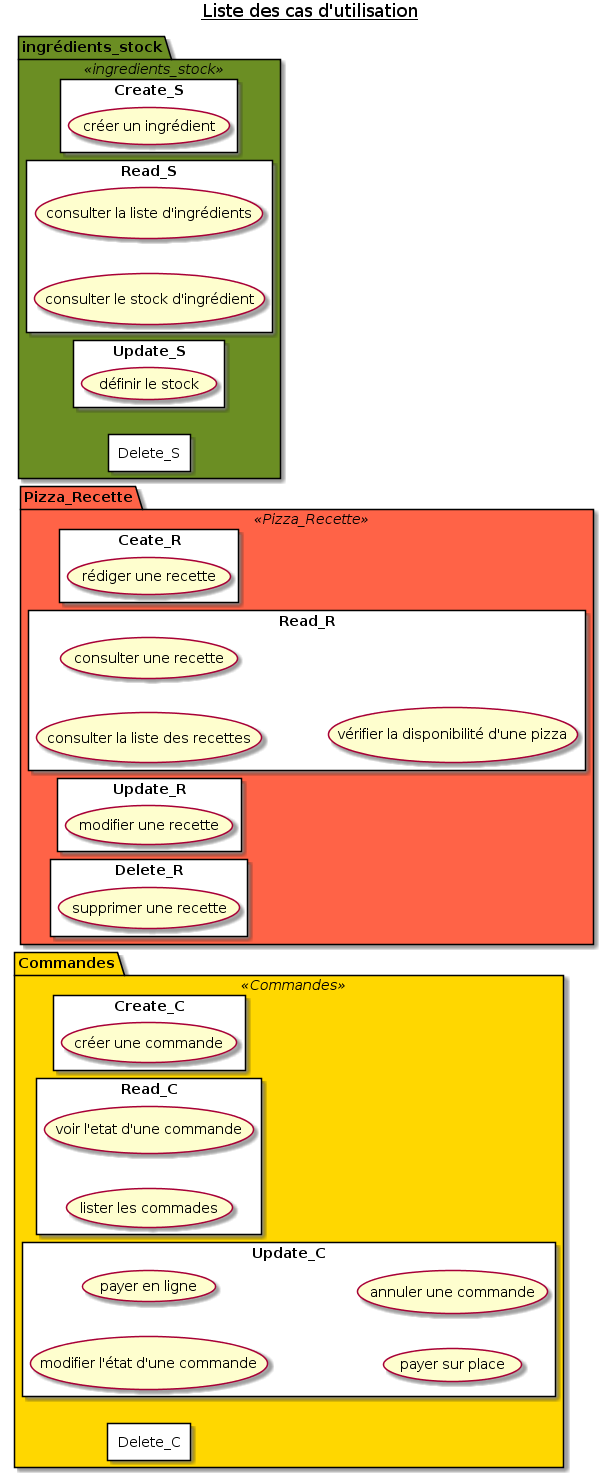
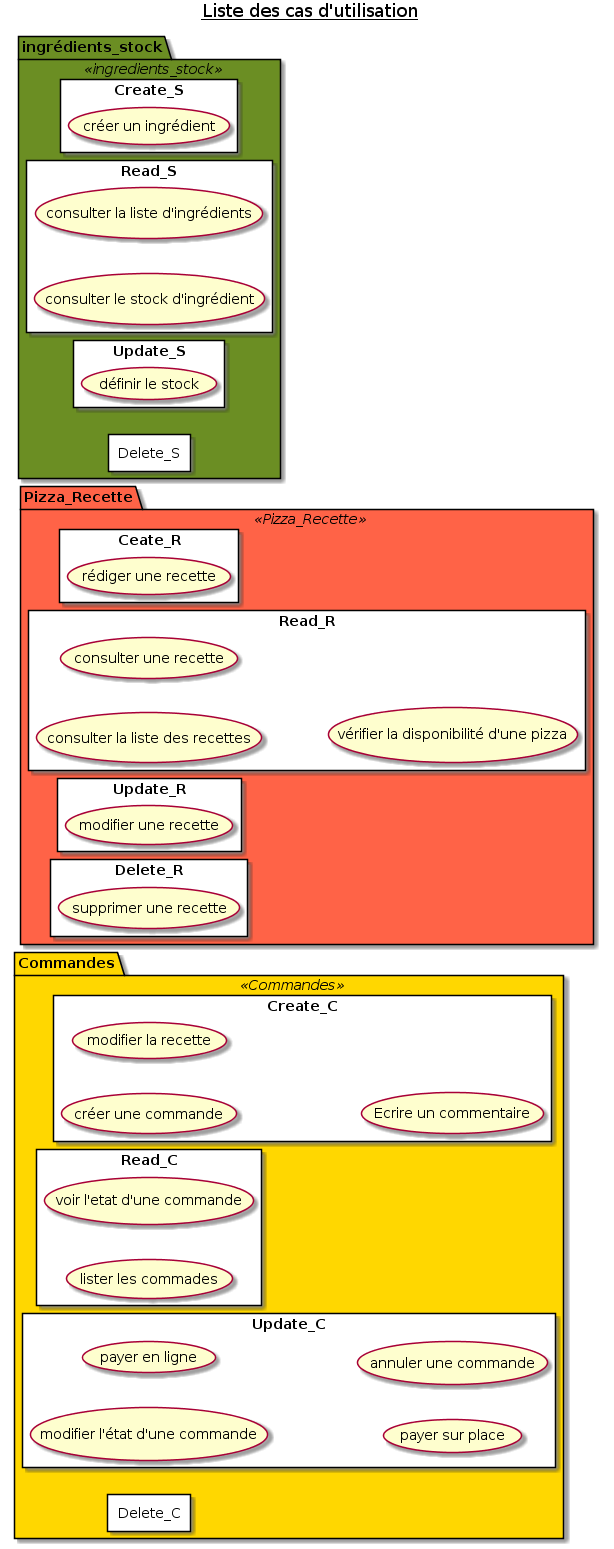
add custom command

diff --git a/doc/demarche.md b/doc/demarche.md
@@ -39,6 +39,7 @@ j'ai pu faire des regroupements dans les actions et je me suis basé sur "CRUD" 
 
 * [Creation d'une commande (en ligne)](img/4_Commande_CREATE_CMD_ActivityDiagram.png)
 * [Création d'une commande (par l'agent d'accueil)](img/4_Commande_CREATE_CMD_2_ActivityDiagram.png)
+* [Personalisation d'une commande](img/4_commande_custom.png)
 * [Annulation de commande](img/4_Commande_CANCEL_CMD_ActivityDiagram.png)
 * [Préparation de la commande](img/4_preparation_commande.png)
 * [Remise de la pizza](img/4_remise_pizza.png)
@@ -71,3 +72,11 @@ penser a rajouter :
 * il est possible de consulter pour commander par téléphone
 * il faut aussi penser qu'il y a 5 boutiques et bientot 8 pour savoir où est le stock, les commandes etc...
 * **prevoir les demandes pséciales (sans champi, double chorizo, etc...) => ca fait acceder tout le monde à la liste des ingrédrients, prévoir une liste "modifiable"**
+
+rajouter un commentaire lors de la commande
+
+modifier une recette
+
+si on retire un ingrédient c'est le même prix
+
+si on ajoute un ingrédient ca modifie le prix
